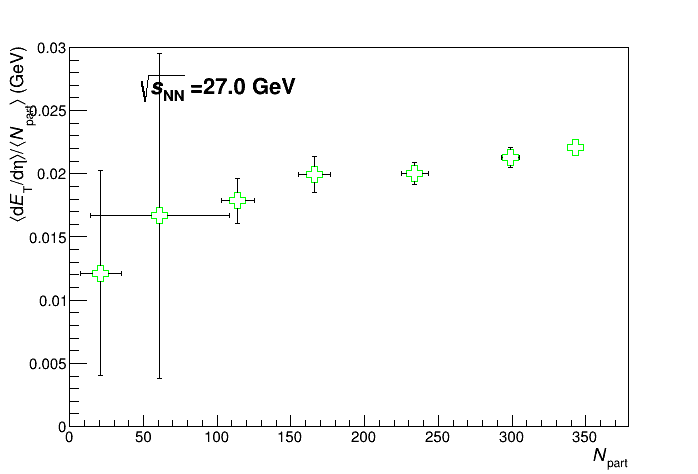
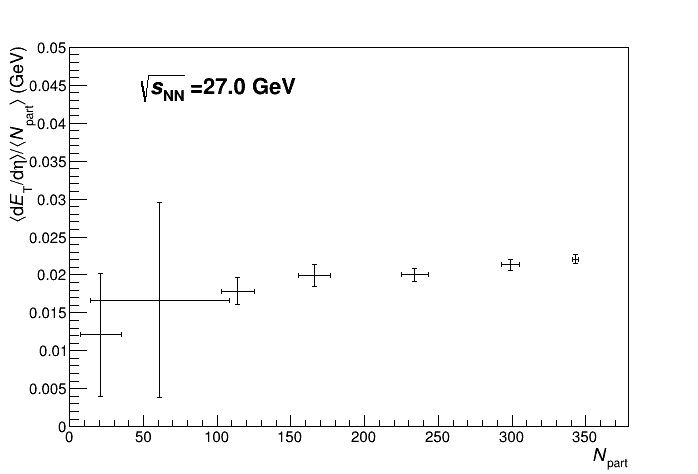
errors in the TGraphErrors plots created by interpLaCentTGE.cpp now look reasonable as seen from the plots in the directory debugPlots and the related subdirectory in finalPlots

diff --git a/interpLaCentTGE.cpp b/interpLaCentTGE.cpp
@@ -274,6 +274,11 @@ int interpLaCentTGE(){
 			cout << *(NpartArrEnByEn+i) << ", ";
 		}
 		cout << endl;
+		cout << "npartArr_err: "; 
+		for (int i = 0; i<cents; i++){
+			cout << *(NpartArrEnByEn_err+i) << ", ";
+		}
+		cout << endl;
 		cout << "dETdEtaOverNpartArr: "; 
 		for (int i = 0; i<cents; i++){
 			cout << *(dETdEtaOverNpartBy2SumEnByEn+i) << ", ";
@@ -371,7 +376,8 @@ void formatGraph(TGraphErrors* g, Double_t collEn_Or_NpartArr[], int en_Or_centI
 	}
 	else if (g -> GetName()==npart1){
 		cout << "Working on npart1********" << endl;
-		g->SetMarkerStyle(28);
+		g->SetMarkerStyle(1);
+		//g->SetMarkerSize(1);
 		g->SetMarkerColor(kGreen);
 		xlabel = "#it{N}_{part}";
 		ylabel= "#LTd#it{E}_{T}/d#eta#GT/#LT#it{N}_{part}#GT (GeV)";
@@ -395,7 +401,8 @@ void formatGraph(TGraphErrors* g, Double_t collEn_Or_NpartArr[], int en_Or_centI
 	else if (g -> GetName()==debug){
 		cout << "Creating debug plot*********** "<< en_Or_centInd << ": " <<
 			doubToString(collEn_Or_NpartArr[en_Or_centInd]) << endl;
-		g->SetMarkerStyle(28);
+		g->SetMarkerStyle(1);
+		//g->SetMarkerSize(1);
 		g->SetMarkerColor(kGreen);
 		xlabel = "#it{N}_{part}";
 		ylabel= "#LTd#it{E}_{T}/d#eta#GT/#LT#it{N}_{part}#GT (GeV)";
@@ -409,7 +416,7 @@ void formatGraph(TGraphErrors* g, Double_t collEn_Or_NpartArr[], int en_Or_centI
 	g->GetHistogram()-> SetTitle(0);
 	g->GetHistogram()->GetXaxis()-> SetTitle(xlabel);
 	g->GetHistogram()->GetXaxis()-> SetTitleOffset(1.05);
-	g->GetHistogram()->GetYaxis()-> SetRangeUser(0., 0.030);
+	g->GetHistogram()->GetYaxis()-> SetRangeUser(0., 0.050);
 	g->GetHistogram()->GetXaxis()-> SetTitleSize(0.04);
 	g->GetHistogram()->GetYaxis()-> SetTitle(ylabel);
 	g->GetHistogram()->GetYaxis()-> SetTitleSize(0.04);
@@ -470,16 +477,27 @@ Double_t* interpolateNpartGraph(TGraphErrors* tg, int en){
 						// i.e., npart values corresponding to last 4 cents
 	{
 		x_interp[i-5] 		= *getNpartAndErr(collEnArr[en], i);
-		x_interp_err[i-5] 	= *getNpartAndErr(collEnArr[en], i+1);
+		x_interp_err[i-5] 	= *(getNpartAndErr(collEnArr[en], i) + 1);
 		y_interp[i-5] 		= (tg -> Eval(x_interp[i-5], 0,"S")); // option S implies third-order spline
 		// take the percent error in the next point (i-6)? with the 
 		 //bigger percent error as the conservative estimate
 		 // for the percent error in the above point
-		Double_t x; // temp var to hold (i-5)th x-val
-		Double_t y; // temp var to hold (i-5)th y-val
-		tg -> GetPoint(i-6, x, y); // FIXME: not sure if it should be i-6 always
+		Double_t x; // temp var to hold x-val from tg
+		Double_t y; // temp var to hold y-val from tg
+		tg -> GetPoint(5+(i-1)/5, x, y); // take the relative error of the 
+										//6th bin in the old array as 
+										// the relative error of the 6th bin
+										// in the new array, and
+										// take that of the 7th bin in the old
+										// array for the rest of the bins in
+										// the new array, to be conservative,
+										// since the 7th bin in the old array
+										// has the most relative error 
 		// find absolute error by multiplying the percent error with the y-value
-		y_interp_err[i-5] 	= y_interp[i-5]*(tg->GetErrorY(i-6))/y; // numbering for class TGE starts at 0
+		y_interp_err[i-5] 	= y_interp[i-5]*(tg->GetErrorY(5+(i-1)/5))/y;
+		cout << "***relative error for "<< y_interp[i-5] << ": " 
+				<< tg->GetErrorY(5+(i-1)/5)<< "/"
+				<< y << "=" << y_interp_err[i-5] << endl;
 		// get dET/dEta = (dET/dEta)/npart * npart:
 		y_interpET[i-5] 	= (tg -> Eval(x_interp[i-5], 0,"S"))*x_interp[i-5];
 		// save errors in the same array:
@@ -492,6 +510,11 @@ Double_t* interpolateNpartGraph(TGraphErrors* tg, int en){
 	cout << "x_interp: "; 
 	for (int i = 0; i<4; i++){
 		cout << *(x_interp+i) << ", ";
+	}
+	cout << endl;
+	cout << "x_interp_err: "; 
+	for (int i = 0; i<4; i++){
+		cout << *(x_interp_err+i) << ", ";
 	}
 	cout << endl;
 	cout << "y_interp: "; 
